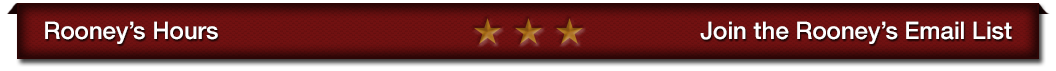
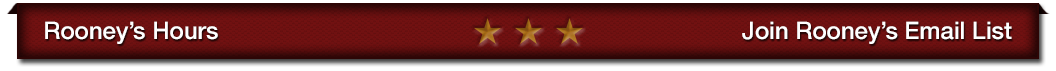
updated styling, new slider bg, new header

Changed region(s): [[0.6562, 0.2817, 0.75, 0.5915]]

diff --git a/app/assets/stylesheets/application.css.scss b/app/assets/stylesheets/application.css.scss
@@ -59,22 +59,19 @@ body {
 	#links {
 		display: inline-block;
 		position: relative;
-		width: 60em;
-		padding-top: 10px;
-		padding-left: 10px;
-		top: -110px;
-		left: 250px;
+		padding-bottom: 8px;
+		top: -73px;
+		left: 0px;
 		font-family: 'MarcellusSC-Regular';
-
+		border-bottom: 2px solid #bbb;
 
 		.link {
 			display: inline-block;
-			height: 37px;
 			text-decoration: none;
-			font-size: 1.3em;
+			font-size: 1.25em;
 			color: #bbb;			
 			text-shadow: 1px 1px 3px #000;
-			margin-right: 50px;
+			margin-right: 42px;
 		}	
 
 		.link:hover {
@@ -85,10 +82,9 @@ body {
 	#information {
 		font-family: 'Open Sans' sans-serif;
 		position: relative;
-		top: -115px;
+		top: -70px;
 		left: 250px;
 		width: 60em;
-		border-top: 2px solid #bbb;
 		padding-top: 7px;
 		color: #999;
 		letter-spacing: 1px;

diff --git a/app/assets/stylesheets/welcome.css.scss b/app/assets/stylesheets/welcome.css.scss
@@ -11,11 +11,11 @@
 }
 
 #slider_bg {
-	background: url('/assets/slider.png') no-repeat;
-	width: 1096px;
-	height: 584px;
+	background: url('/assets/slider_bg.jpg') no-repeat;
+	width: 1078px;
+	height: 564px;
 	position: relative;
-	margin-top: -525px;
+	margin-top: -515px;
 	margin-left: auto;
 	margin-right: auto;
 }
@@ -25,7 +25,6 @@
 	width: 1077px;
 	height: 181px;
 	margin-left: auto;
-	padding: 0 2px 0 7px;
 	margin-right: auto;
 	margin-top: 40px;
 
@@ -357,9 +356,8 @@
 #events {
 
 	h1 {
-		text-align: center;
 		margin:0 0 40px 0;
-		padding: 0;
+		text-align: center;
 	}
 
 	#description {
@@ -372,7 +370,8 @@
 		margin-right: auto;
 
 		p {
-			margin: 0;
+			margin-bottom: 0px;
+			padding-bottom: 40px;
 		}
 	}
 }

diff --git a/app/assets/stylesheets/dark.css b/app/assets/stylesheets/dark.css
@@ -21,7 +21,7 @@ Supports Thumbs: true
 	position:relative;
 	background:#fff url(loading.gif) no-repeat 50% 50%;
     bottom: 15px;
-    left: 8px;
+    left: 5px;
     overflow: visible;
     box-shadow: 5px 5px 15px #000;
 }
